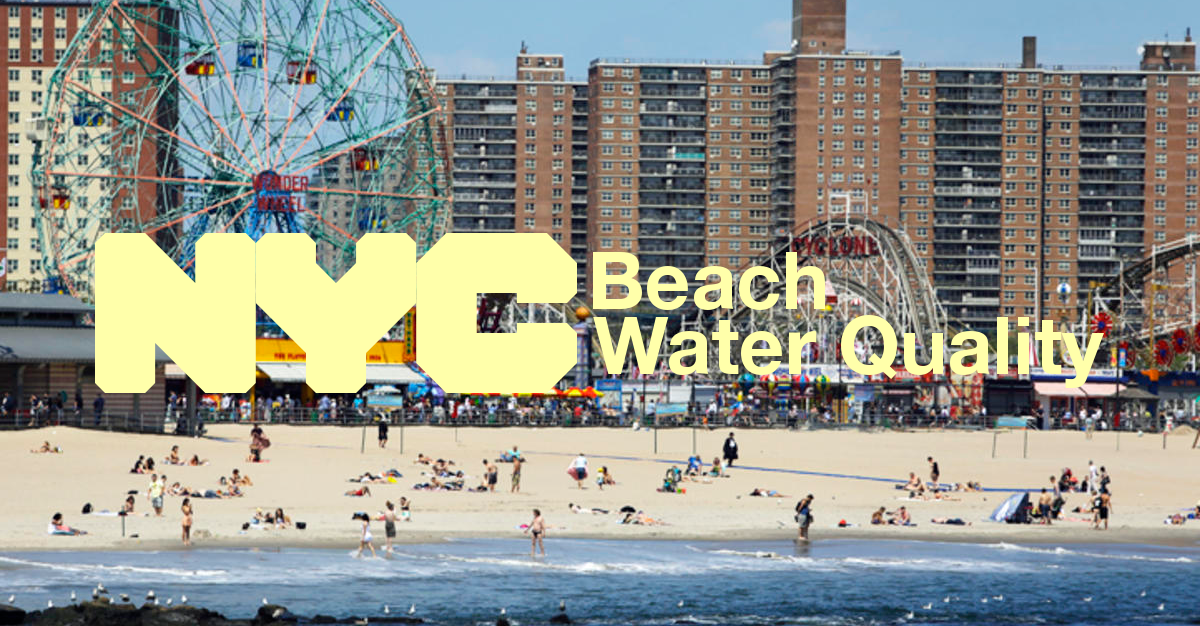
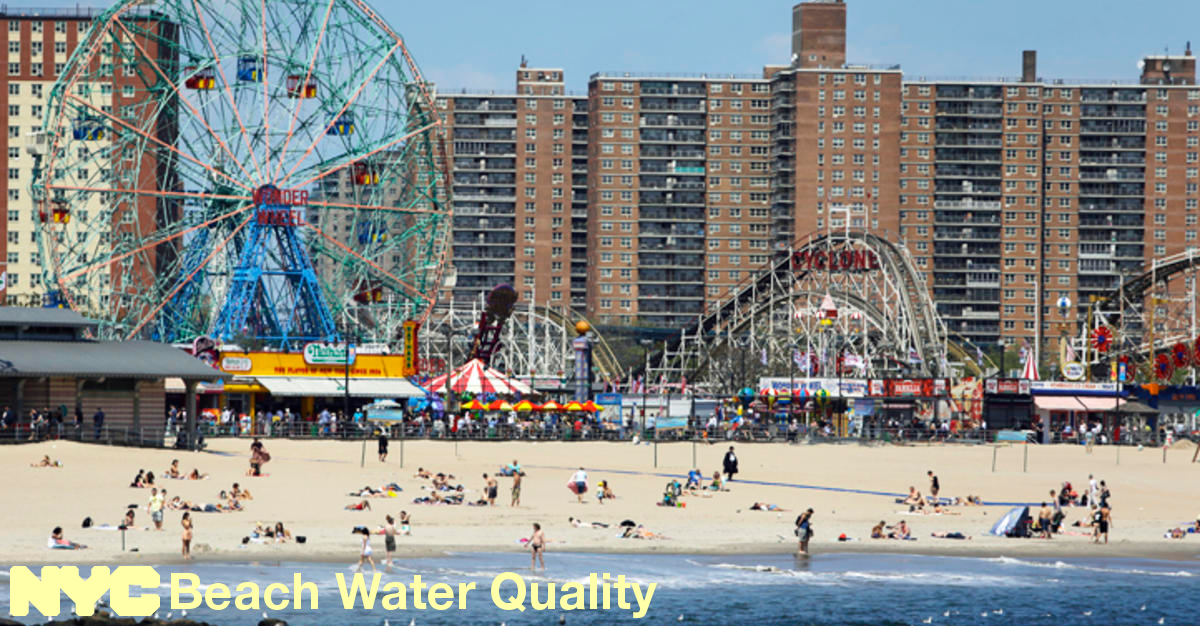
og image

diff --git a/src/main/webapp/index.html b/src/main/webapp/index.html
@@ -9,10 +9,6 @@
 	<meta prefix="og: http://ogp.me/ns#" property="og:title" content="NYC Beach Water Quality">
 	<meta prefix="og: http://ogp.me/ns#" property="og:type" content="website">
 	<meta prefix="og: http://ogp.me/ns#" property="og:url" content="https://maps.nyc.gov/beach">
-	<meta prefix="og: http://ogp.me/ns#" property="og:image" content="https://maps.nyc.gov/beach/img/li.png">
-	<meta prefix="og: http://ogp.me/ns#" property="og:image:type" content="image/png">
-	<meta prefix="og: http://ogp.me/ns#" property="og:image:width" content="1200">
-	<meta prefix="og: http://ogp.me/ns#" property="og:image:height" content="325">
 	<meta prefix="og: http://ogp.me/ns#" property="og:image" content="https://maps.nyc.gov/beach/img/og.png">
 	<meta prefix="og: http://ogp.me/ns#" property="og:image:width" content="1200">
 	<meta prefix="og: http://ogp.me/ns#" property="og:image:height" content="626">
